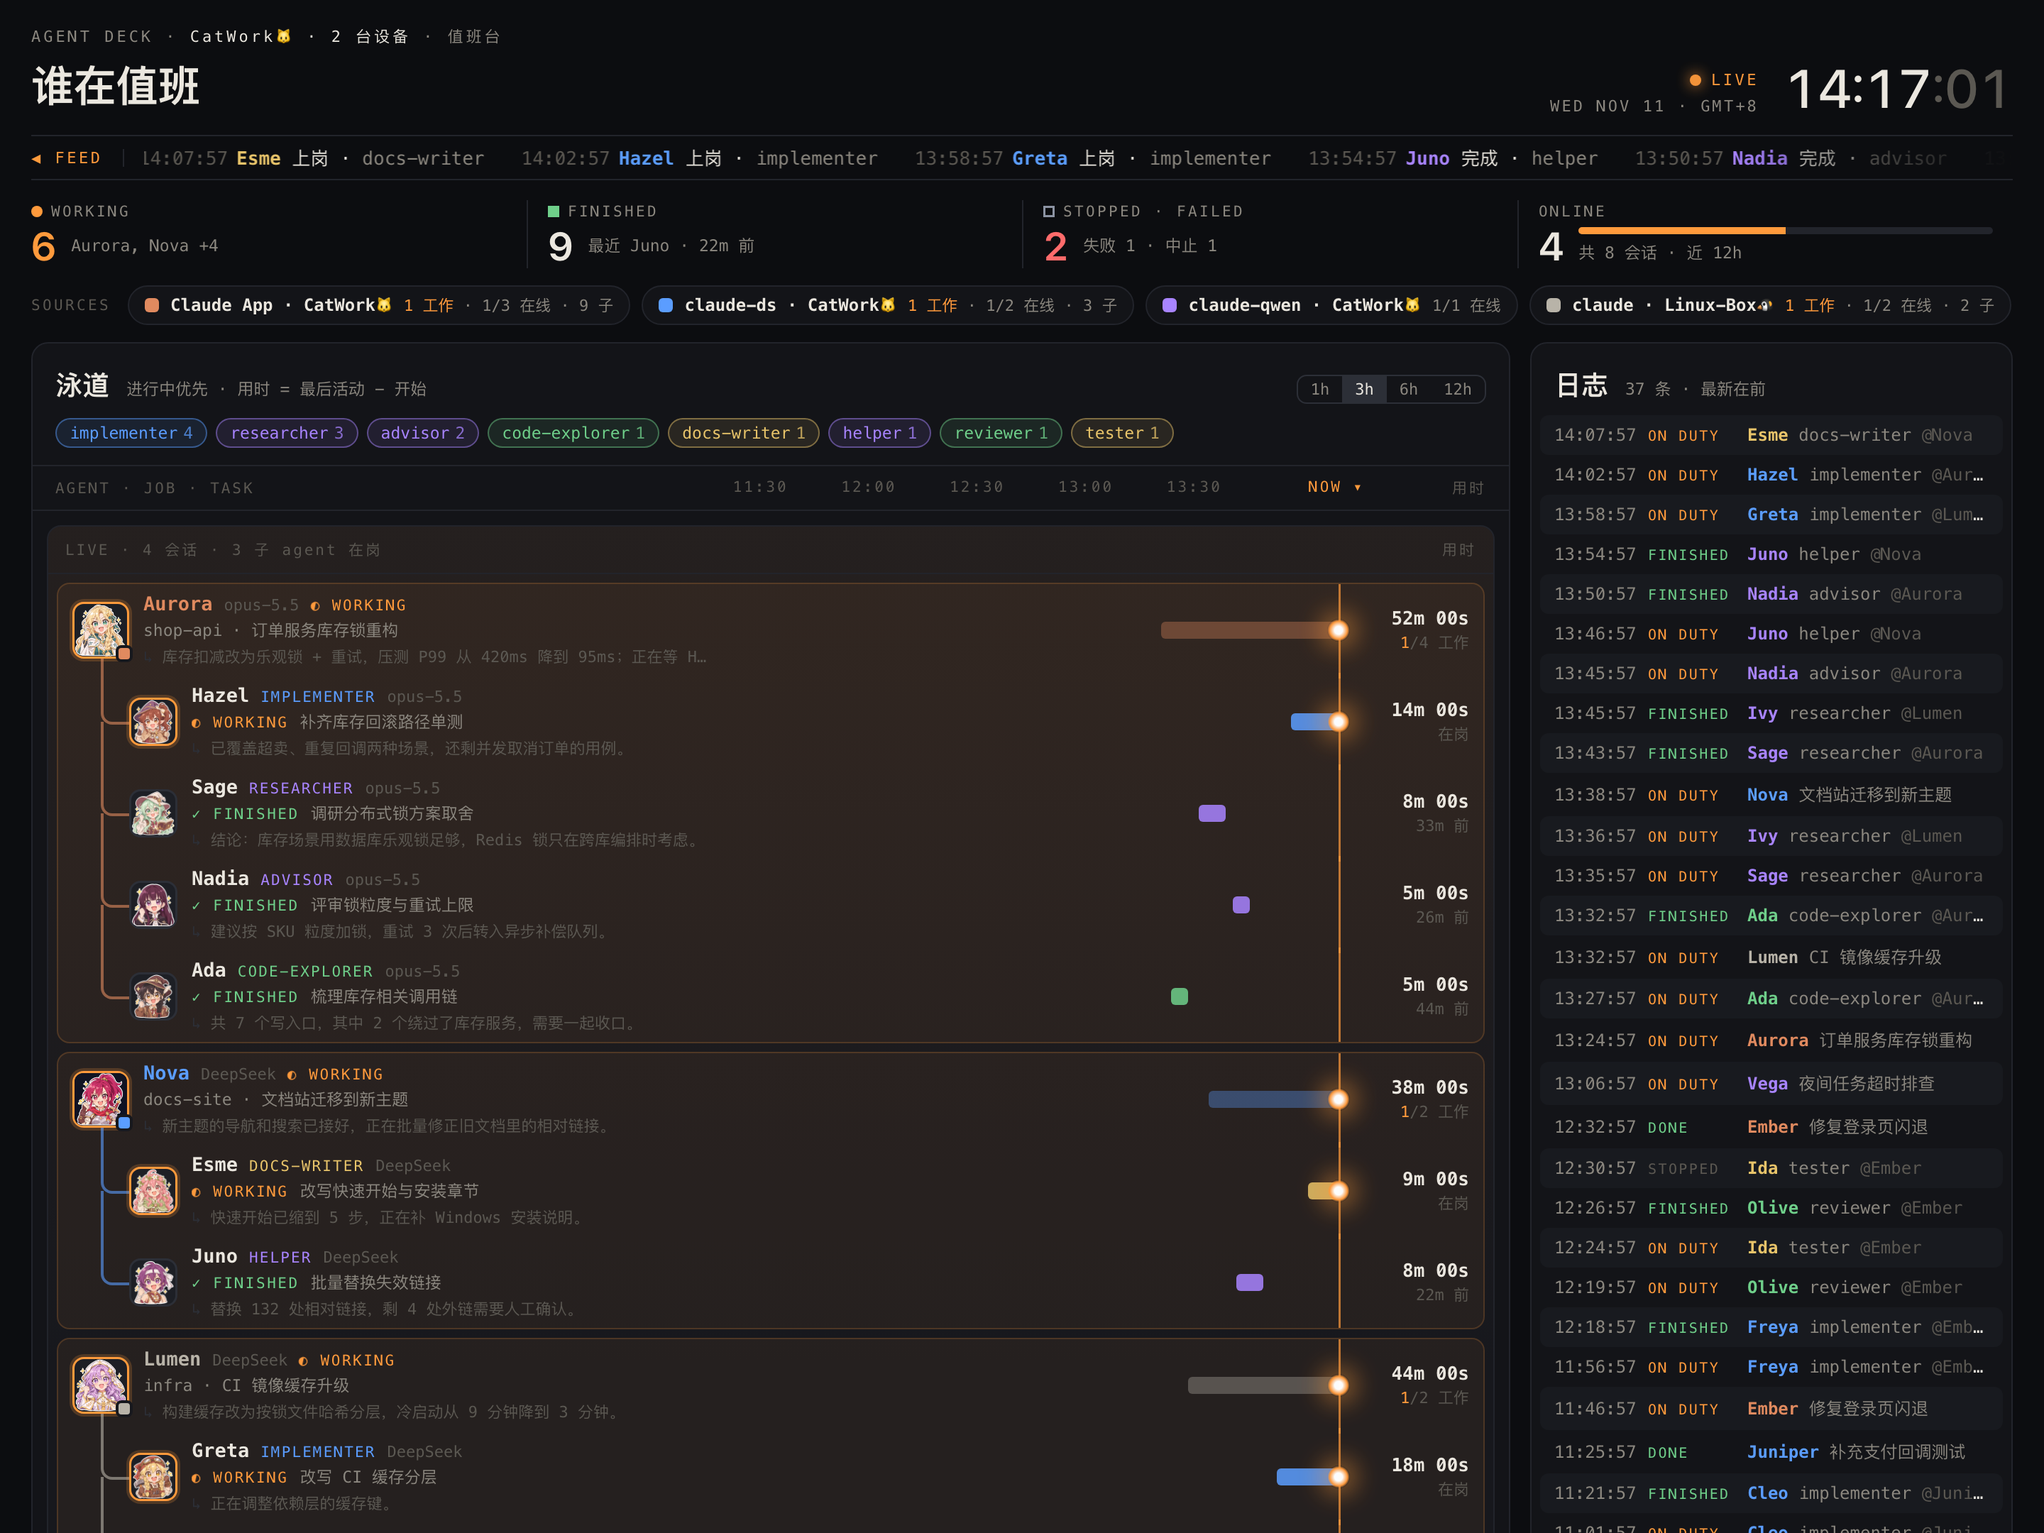
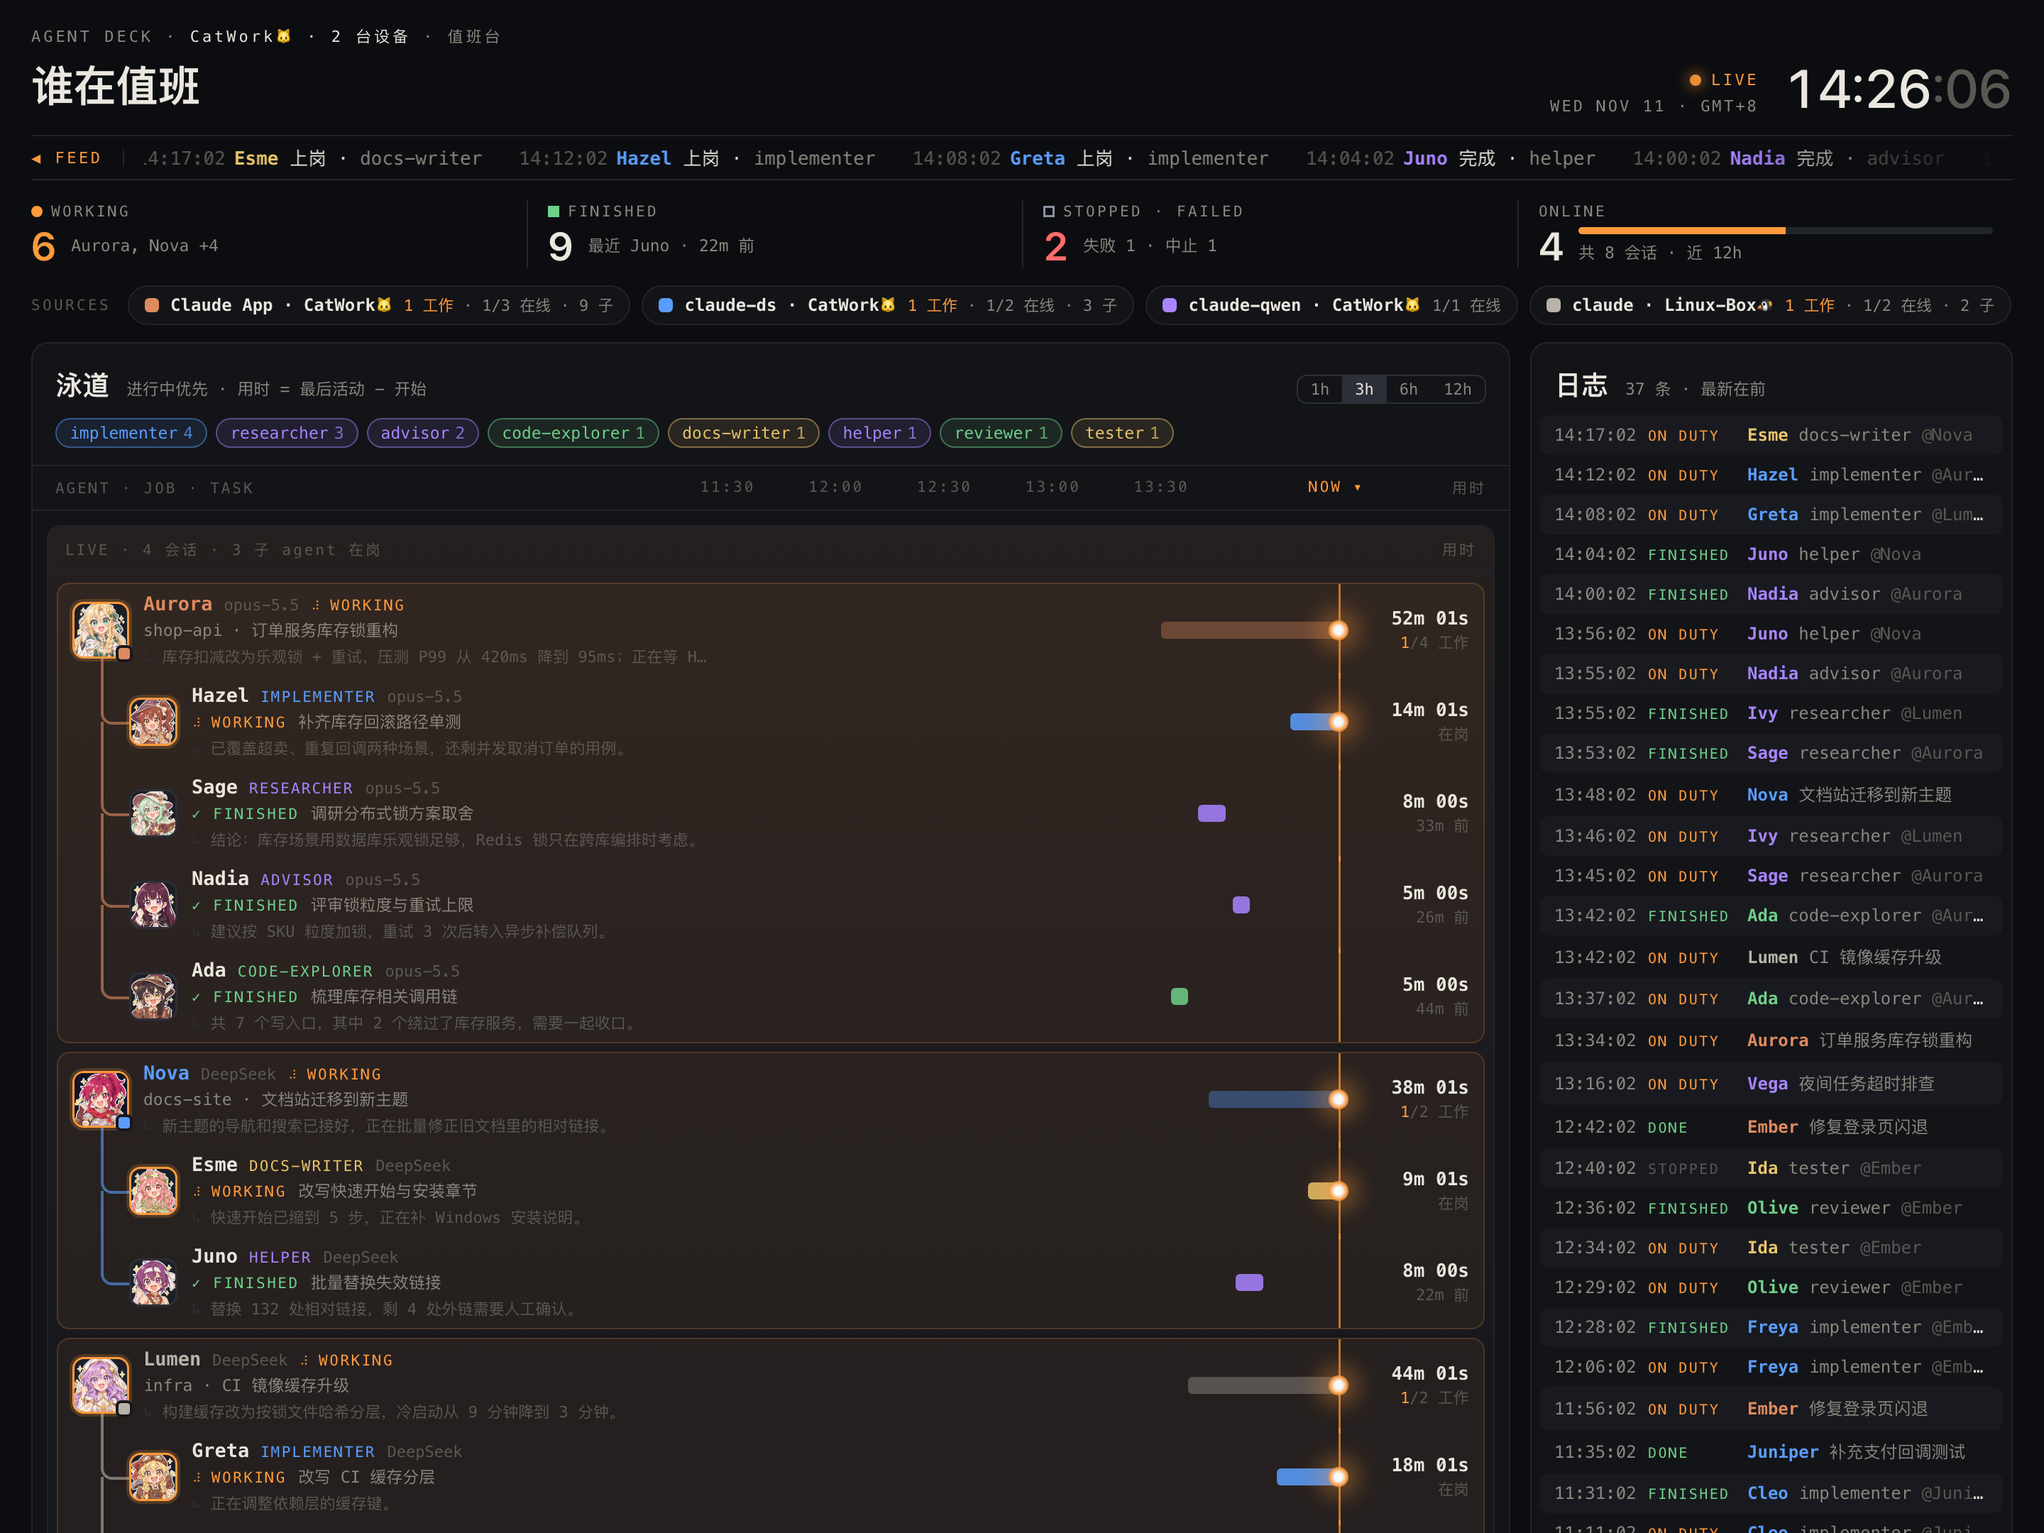
fix/feat: 盲文点阵转圈、消除刷新闪白、增量更新、头像放大 15% (#3)
* fix: 转圈改为盲文点阵逐帧动画，消除刷新闪白

- 转圈不再旋转 ◐ 字形（字形重心不在中心导致偏心转动），改为 ⠋⠙⠹⠸⠼⠴⠦⠧⠇⠏ 逐帧切换
- <html> 内联深色背景并声明 color-scheme: dark，首帧即为深色，刷新不再闪白
- 头像图片同步解码，减少每 3 秒重绘时的闪动

* feat: 面板增量更新，头像画面放大 15%

- 周期刷新不再整块重写 innerHTML：按 data-key 对比新旧 DOM，只改变化的文字/属性，
  头像不重新加载、转圈与跑马灯动画不被重置；新出现的会话/子 agent/日志条目淡入
- 时间条与在线比例条宽度变化加过渡
- 头像框尺寸不变，内部画面放大 15%（超出部分在框内裁切，不改图片文件）
- README 截图更新

diff --git a/index.html b/index.html
@@ -1,11 +1,13 @@
 <!doctype html>
-<html lang="zh-CN">
+<html lang="zh-CN" style="background:#0c0d10;color-scheme:dark">
 <head>
 <meta charset="utf-8">
 <meta name="viewport" content="width=device-width, initial-scale=1">
+<meta name="color-scheme" content="dark">
+<meta name="theme-color" content="#0c0d10">
 <title>Agent Deck · 值班台</title>
 <style>
-:root{
+:root{color-scheme:dark;
   --bg:#0c0d10; --panel:#131418; --panel2:#17181d; --line:#22242b; --line2:#2c2f37;
   --text:#ebe7df; --dim:#8b877f; --faint:#5b5852;
   --work:#ff9a3c; --idle:#e8c46a; --done:#6fcf8a; --stop:#8c93a3; --fail:#ff6b6b;
@@ -52,7 +54,7 @@ h1{font-family:var(--sans);font-size:30px;font-weight:700;margin:6px 0 0;letter-
 .stat .sub{color:var(--dim);font-size:11.5px;white-space:nowrap;overflow:hidden;text-overflow:ellipsis;min-width:0}
 .stat .col{display:flex;flex-direction:column;gap:5px;flex:1;min-width:0}
 .bar{height:5px;background:var(--line);border-radius:3px;overflow:hidden;width:100%}
-.bar i{display:block;height:100%;background:var(--work)}
+.bar i{display:block;height:100%;background:var(--work);transition:width .8s ease}
 
 /* sources */
 .sources{display:flex;gap:8px;margin-bottom:12px;flex-wrap:wrap;align-items:center}
@@ -105,6 +107,10 @@ h1{font-family:var(--sans);font-size:30px;font-weight:700;margin:6px 0 0;letter-
 .child .av{margin-left:40px}
 .av{width:34px;height:34px;border-radius:8px;flex:none;border:1.5px solid var(--line2);background:#1d1f25;position:relative}
 .av img{width:100%;height:100%;display:block;border-radius:6px;object-fit:cover}
+.avi{display:block;width:100%;height:100%;overflow:hidden;border-radius:6px}
+.avi img{transform:scale(1.15);transform-origin:50% 50%}   /* 头像框不变，内部画面放大 15% */
+.enter{animation:enter .45s ease-out}
+@keyframes enter{from{opacity:0;transform:translateY(-4px)}to{opacity:1;transform:none}}
 .av svg{width:100%;height:100%;display:block;border-radius:6px;image-rendering:pixelated}
 .row.lead .av{width:40px;height:40px}
 .av .sb{position:absolute;right:-4px;bottom:-4px;width:12px;height:12px;border-radius:4px;border:2px solid var(--panel2)}
@@ -122,12 +128,14 @@ h1{font-family:var(--sans);font-size:30px;font-weight:700;margin:6px 0 0;letter-
 .row.hasreply{min-height:60px}
 .st{font-size:10.5px;letter-spacing:.12em;flex:none}
 .st.working{color:var(--work)} .st.idle{color:var(--idle)} .st.finished,.st.done{color:var(--done)} .st.stopped{color:var(--stop)} .st.failed{color:var(--fail)}
-.spin{display:inline-block;animation:spin 1s linear infinite}
-@keyframes spin{to{transform:rotate(360deg)}}
+/* 加载动画：盲文点阵逐帧切换（不旋转字形，避免字形重心不在中心时偏心转动） */
+.spin{display:inline-block;width:1ch;text-align:center}
+.spin::before{content:"⠋";animation:dots-spin .8s steps(1,end) infinite}
+@keyframes dots-spin{0%{content:"⠋"}10%{content:"⠙"}20%{content:"⠹"}30%{content:"⠸"}40%{content:"⠼"}50%{content:"⠴"}60%{content:"⠦"}70%{content:"⠧"}80%{content:"⠇"}90%{content:"⠏"}}
 .pill{font-size:11px;border:1px solid var(--line2);border-radius:5px;padding:1px 7px;color:var(--dim);flex:none}
 .pill.hot{border-color:color-mix(in srgb,var(--work) 55%,transparent);color:var(--work)}
 .tl{position:relative;height:100%;min-height:30px;margin:0 6px}
-.tl .seg-b{position:absolute;top:50%;height:12px;transform:translateY(-50%);border-radius:3px;min-width:3px;background:var(--c);opacity:.85}
+.tl .seg-b{transition:left .8s ease,width .8s ease;position:absolute;top:50%;height:12px;transform:translateY(-50%);border-radius:3px;min-width:3px;background:var(--c);opacity:.85}
 .tl .seg-b.ghost{opacity:.35}
 .tl .nowl{position:absolute;top:-8px;bottom:-8px;width:1.5px;background:color-mix(in srgb,var(--work) 70%,transparent)}
 .tl .orb{position:absolute;top:50%;width:16px;height:16px;border-radius:50%;transform:translate(-50%,-50%);background:radial-gradient(circle,#fff 0 25%,var(--work) 55%,transparent 72%);box-shadow:0 0 18px 4px color-mix(in srgb,var(--work) 55%,transparent);animation:pulse 1.6s infinite}
@@ -214,6 +222,37 @@ function localSet(k,v){try{localStorage.setItem("deck."+k,v)}catch{}}
 function srcBase(id){return String(id||"").split("@")[0]}
 function sCol(id){return SRC_COLOR[srcBase(id)]||"#9a958c"}
 function sHex(id){return SRC_HEX[srcBase(id)]||"#9a958c"}
+/* ---------- 增量更新：把新 HTML 与现有 DOM 对比，只改有变化的文字/属性，元素尽量复用
+   （图片不重新加载、动画不中断）；带 data-key 的元素按 key 匹配，新出现的条目淡入。 */
+function patch(el, html){
+  const tpl=document.createElement("template"); tpl.innerHTML=html;
+  morphChildren(el, tpl.content, el.hasChildNodes());
+}
+function sameKind(a,b){
+  if(a.nodeType!==b.nodeType||a.nodeName!==b.nodeName) return false;
+  return a.nodeType!==1 || (a.getAttribute("data-key")===b.getAttribute("data-key"));
+}
+function morphChildren(oldP, newP, animate){
+  const keyed=new Map();
+  for(const c of oldP.childNodes) if(c.nodeType===1&&c.hasAttribute("data-key")) keyed.set(c.getAttribute("data-key"),c);
+  let ref=oldP.firstChild;
+  for(const n of [...newP.childNodes]){
+    let m=null;
+    const k=n.nodeType===1?n.getAttribute("data-key"):null;
+    if(k!==null){ m=keyed.get(k)||null; if(m&&m.nodeName!==n.nodeName) m=null; if(m) keyed.delete(k); }
+    else if(ref&&sameKind(ref,n)) m=ref;
+    if(m){ if(m===ref) ref=ref.nextSibling; else oldP.insertBefore(m, ref); morph(m,n,animate); }
+    else { oldP.insertBefore(n, ref); if(animate&&k!==null) n.classList.add("enter"); }
+  }
+  while(ref){ const nx=ref.nextSibling; oldP.removeChild(ref); ref=nx; }
+}
+function morph(a,b,animate){
+  if(a.nodeType===3||a.nodeType===8){ if(a.nodeValue!==b.nodeValue) a.nodeValue=b.nodeValue; return; }
+  for(const at of [...a.attributes]) if(!b.hasAttribute(at.name)) a.removeAttribute(at.name);
+  for(const at of b.attributes) if(a.getAttribute(at.name)!==at.value) a.setAttribute(at.name, at.value);
+  morphChildren(a,b,animate);
+}
+
 function h(s){return String(s??"").replace(/[&<>"]/g,c=>({"&":"&amp;","<":"&lt;",">":"&gt;",'"':"&quot;"}[c]))}
 function hash(s){let x=2166136261;for(const c of String(s)){x^=c.charCodeAt(0);x=Math.imul(x,16777619)}return x>>>0}
 function jobColor(j){return j==="lead"?"#ebe7df":JOB_PALETTE[hash(j)%JOB_PALETTE.length]}
@@ -226,7 +265,7 @@ function shortModel(m){return m?m.replace(/^claude-/,"").replace(/-(\d+)-(\d+)$/
 /* 像素头像：按 id 生成 8x8 左右对称小人，颜色由哈希决定 */
 const AV_CACHE = new Map();
 function avatar(id, kind, name){
-  if(name && S.data && S.data.avatars && S.data.avatars.includes(name.toLowerCase())) return `<img src="/avatars/${name.toLowerCase()}.png" alt="" loading="lazy">`;
+  if(name && S.data && S.data.avatars && S.data.avatars.includes(name.toLowerCase())) return `<span class="avi"><img src="/avatars/${name.toLowerCase()}.png" alt="" decoding="sync"></span>`;
   const key=id+kind; if(AV_CACHE.has(key)) return AV_CACHE.get(key);
   let r=hash(id); const rnd=()=>{r^=r<<13;r^=r>>>17;r^=r<<5;return (r>>>0)/4294967296};
   const hue=Math.floor(rnd()*360), hue2=(hue+140+Math.floor(rnd()*80))%360;
@@ -273,29 +312,29 @@ function renderStats(){
   const online=leads.filter(l=>l.status==="working"||l.status==="idle");
   const nf=bad.filter(a=>a.status==="failed").length, ns=bad.length-nf;
   const stat=(k,v,vc,sub,extra="")=>`<div class="stat"><div class="k">${k}</div><div class="row2"><div class="v" style="color:${vc}">${v}</div><div class="col">${extra}<div class="sub">${sub}</div></div></div></div>`;
-  $("stats").innerHTML=
+  patch($("stats"),
     stat(`<b style="background:var(--work);border-radius:50%"></b>WORKING`, working.length, working.length?"var(--work)":"var(--text)",
       h(working.length? working.slice(0,2).join(", ")+(working.length>2?` +${working.length-2}`:"") : "都在待命"))+
     stat(`<b style="background:var(--done)"></b>FINISHED`, fin.length, "var(--text)", fin[0]?`最近 ${h(fin[0].name)} · ${ago(fin[0].last)}`:"—")+
     stat(`<b style="border:1.5px solid var(--stop)"></b>STOPPED · FAILED`, bad.length, nf?"var(--fail)":bad.length?"var(--text)":"var(--faint)", bad.length?`失败 ${nf} · 中止 ${ns}`:"一切正常")+
-    stat(`ONLINE`, online.length, "var(--text)", `共 ${leads.length} 会话 · 近 ${Number(d.hours)||12}h`, `<div class="bar"><i style="width:${leads.length?online.length/leads.length*100:0}%"></i></div>`);
+    stat(`ONLINE`, online.length, "var(--text)", `共 ${leads.length} 会话 · 近 ${Number(d.hours)||12}h`, `<div class="bar"><i style="width:${leads.length?online.length/leads.length*100:0}%"></i></div>`));
 }
 
 function renderSources(){
-  $("sources").innerHTML=`<span class="lab">SOURCES</span>`+S.data.sources.filter(s=>s.sessions||srcBase(s.id)!=="cli").map(s=>`
+  patch($("sources"),`<span class="lab">SOURCES</span>`+S.data.sources.filter(s=>s.sessions||srcBase(s.id)!=="cli").map(s=>`
     <button class="src ${S.off.has(s.id)?"off":""}" data-src="${h(s.id)}" title="${h(s.dir)} · 点击显示/隐藏">
       <span class="dot" style="background:${sCol(s.id)}"></span>
       <span class="nm">${h(s.label)}</span>
       <span class="meta">${s.working?`<em>${s.working} 工作</em> · `:""}${s.online}/${s.sessions} 在线${s.agents?` · ${s.agents} 子`:""}</span>
-    </button>`).join("");
+    </button>`).join(""));
 }
 
 function renderJobs(){
   const counts=Object.create(null);
   for(const l of S.data.leads) if(!S.off.has(l.src)) for(const a of l.agents) counts[a.type]=(counts[a.type]||0)+1;
   const keys=Object.keys(counts).sort((a,b)=>counts[b]-counts[a]);
-  $("jobs").innerHTML=keys.map(k=>`<button class="chip has ${S.job===k?"sel":""}" style="--c:${jobColor(k)}" data-job="${h(k)}">${h(k)}<span class="n">${counts[k]}</span></button>`).join("")
-    || `<span class="chip">暂无子 agent</span>`;
+  patch($("jobs"),keys.map(k=>`<button class="chip has ${S.job===k?"sel":""}" style="--c:${jobColor(k)}" data-job="${h(k)}">${h(k)}<span class="n">${counts[k]}</span></button>`).join("")
+    || `<span class="chip">暂无子 agent</span>`);
 }
 
 function axisRange(){const t=now(); return [t-S.win*3600e3, t]}
@@ -308,8 +347,8 @@ function renderAxis(){
   const first=Math.ceil(a/(step*60e3))*step*60e3; let out="";
   for(let t=first;t<b-(b-a)*0.16;t+=step*60e3) out+=`<span style="left:${pct(t)}%">${hm(t)}</span>`;
   out+=`<span class="now" style="left:auto;right:0;transform:none">NOW ▾</span>`;
-  $("axis").innerHTML=out;
-  $("win").innerHTML=[1,3,6,12].map(w=>`<button class="${S.win===w?"on":""}" data-win="${w}">${w}h</button>`).join("");
+  patch($("axis"),out);
+  patch($("win"),[1,3,6,12].map(w=>`<button class="${S.win===w?"on":""}" data-win="${w}">${w}h</button>`).join(""));
 }
 
 function bar(item, isLead){
@@ -326,7 +365,7 @@ function replyLine(item){
   const k=item.id||"";
   return `<div class="l3 ${S.openReply.has(k)?"open":""}" data-reply="${h(k)}" title="${h(item.reply)}">${h(item.reply)}</div>`;
 }
-function stLabel(st){st=ST_LABEL[st]?st:"stopped";return `<span class="st ${st}">${st==="working"?'<span class="spin">◐</span> ':""}${ST_LABEL[st]}</span>`}
+function stLabel(st){st=ST_LABEL[st]?st:"stopped";return `<span class="st ${st}">${st==="working"?'<span class="spin" aria-hidden="true"></span> ':""}${ST_LABEL[st]}</span>`}
 
 function leadRow(l, live, hasKids){
   const n=l.agents.length, w=l.agents.filter(a=>a.status==="working").length;
@@ -347,7 +386,7 @@ function leadRow(l, live, hasKids){
 }
 
 function childRow(a, mid){
-  return `<div class="row child ${mid?"mid":""} ${a.status==="working"?"isw":""}">
+  return `<div class="row child ${mid?"mid":""} ${a.status==="working"?"isw":""}" data-key="a:${h(a.id)}">
     <div class="who">
       <div class="av">${avatar(a.id,"agent",a.name)}</div>
       <div class="txt">
@@ -371,7 +410,7 @@ function leadBlock(l, live){
     s+=`<div class="more">+ ${rest} more · ${fin} 完成 · ${rest-fin} 其他 · <button data-all="${h(l.id)}">▾ 全部展开</button></div>`}
   else if(all && l.agents.length>LIMIT) s+=`<div class="more"><button data-all="${h(l.id)}">▴ 收起</button></div>`;
   const hot = l.status==="working" || l.agents.some(a=>a.status==="working");
-  return `<div class="blk ${hot?"w":""}" style="--sc:${sHex(l.src)}">${s}</div>`;
+  return `<div class="blk ${hot?"w":""}" style="--sc:${sHex(l.src)}" data-key="l:${h(l.src)}:${h(l.id)}">${s}</div>`;
 }
 
 function renderLanes(){
@@ -384,7 +423,7 @@ function renderLanes(){
     ${live.length? live.map(l=>leadBlock(l,true)).join("") : `<div class="empty">当前没有在线会话</div>`}</div>`;
   html+=`<div class="group"><div class="gh"><span>RECENT · ${recent.length} 会话</span><span>用时</span></div>
     ${recent.length? recent.map(l=>leadBlock(l,false)).join("") : `<div class="empty">近 ${Number(S.data.hours)||12}h 没有已结束的会话</div>`}</div>`;
-  $("lanes").innerHTML=html;
+  patch($("lanes"),html);
 }
 
 function evLine(e){
@@ -395,15 +434,15 @@ function evLine(e){
 function renderLog(){
   const ev=S.data.events.filter(e=>!S.off.has(e.src) && (!S.job||e.job===S.job));
   $("logn").textContent=`${ev.length} 条 · 最新在前`;
-  $("log").innerHTML=ev.slice(0,250).map(e=>`<div class="ev ${now()-e.at<120e3?"hl":""}"><span class="t">${hm(e.at,true)}</span><span class="k ${KIND_LABEL[e.kind]?e.kind:""}">${h(KIND_LABEL[e.kind]||e.kind)}</span><span class="w" title="${h(e.task||"")}">${evLine(e)}</span></div>`).join("")
-    || `<div class="empty">暂无事件</div>`;
+  patch($("log"),ev.slice(0,250).map(e=>`<div class="ev ${now()-e.at<120e3?"hl":""}" data-key="${h(e.src+"|"+e.lid+"|"+(e.aid||"")+"|"+e.kind+"|"+e.at)}"><span class="t">${hm(e.at,true)}</span><span class="k ${KIND_LABEL[e.kind]?e.kind:""}">${h(KIND_LABEL[e.kind]||e.kind)}</span><span class="w" title="${h(e.task||"")}">${evLine(e)}</span></div>`).join("")
+    || `<div class="empty">暂无事件</div>`);
   const tk=ev.slice(0,14).map(e=>`<span class="tk"><span class="t">${hm(e.at,true)}</span><b style="color:${e.job==="lead"?sHex(e.src):jobColor(e.job)}">${h(e.who)}</b> ${h(VERB[e.kind]||e.kind)} · <span class="dim">${h(e.job==="lead"?"会话":e.job)}</span></span>`).join("");
-  $("ticker").innerHTML = tk ? tk + tk : `<span class="dim">等待事件…</span>`;
+  patch($("ticker"), tk ? tk + tk : `<span class="dim">等待事件…</span>`);
 }
 
 function render(){
   if(!S.data) return;
-  $("eyebrow").innerHTML=`AGENT DECK · <span style="text-transform:none;color:var(--text)">${h(S.data.host)}</span> · 值班台`;
+  patch($("eyebrow"),`AGENT DECK · <span style="text-transform:none;color:var(--text)">${h(S.data.host)}</span> · 值班台`);
   renderStats(); renderSources(); renderJobs(); renderAxis(); renderLanes(); renderLog();
 }
 
